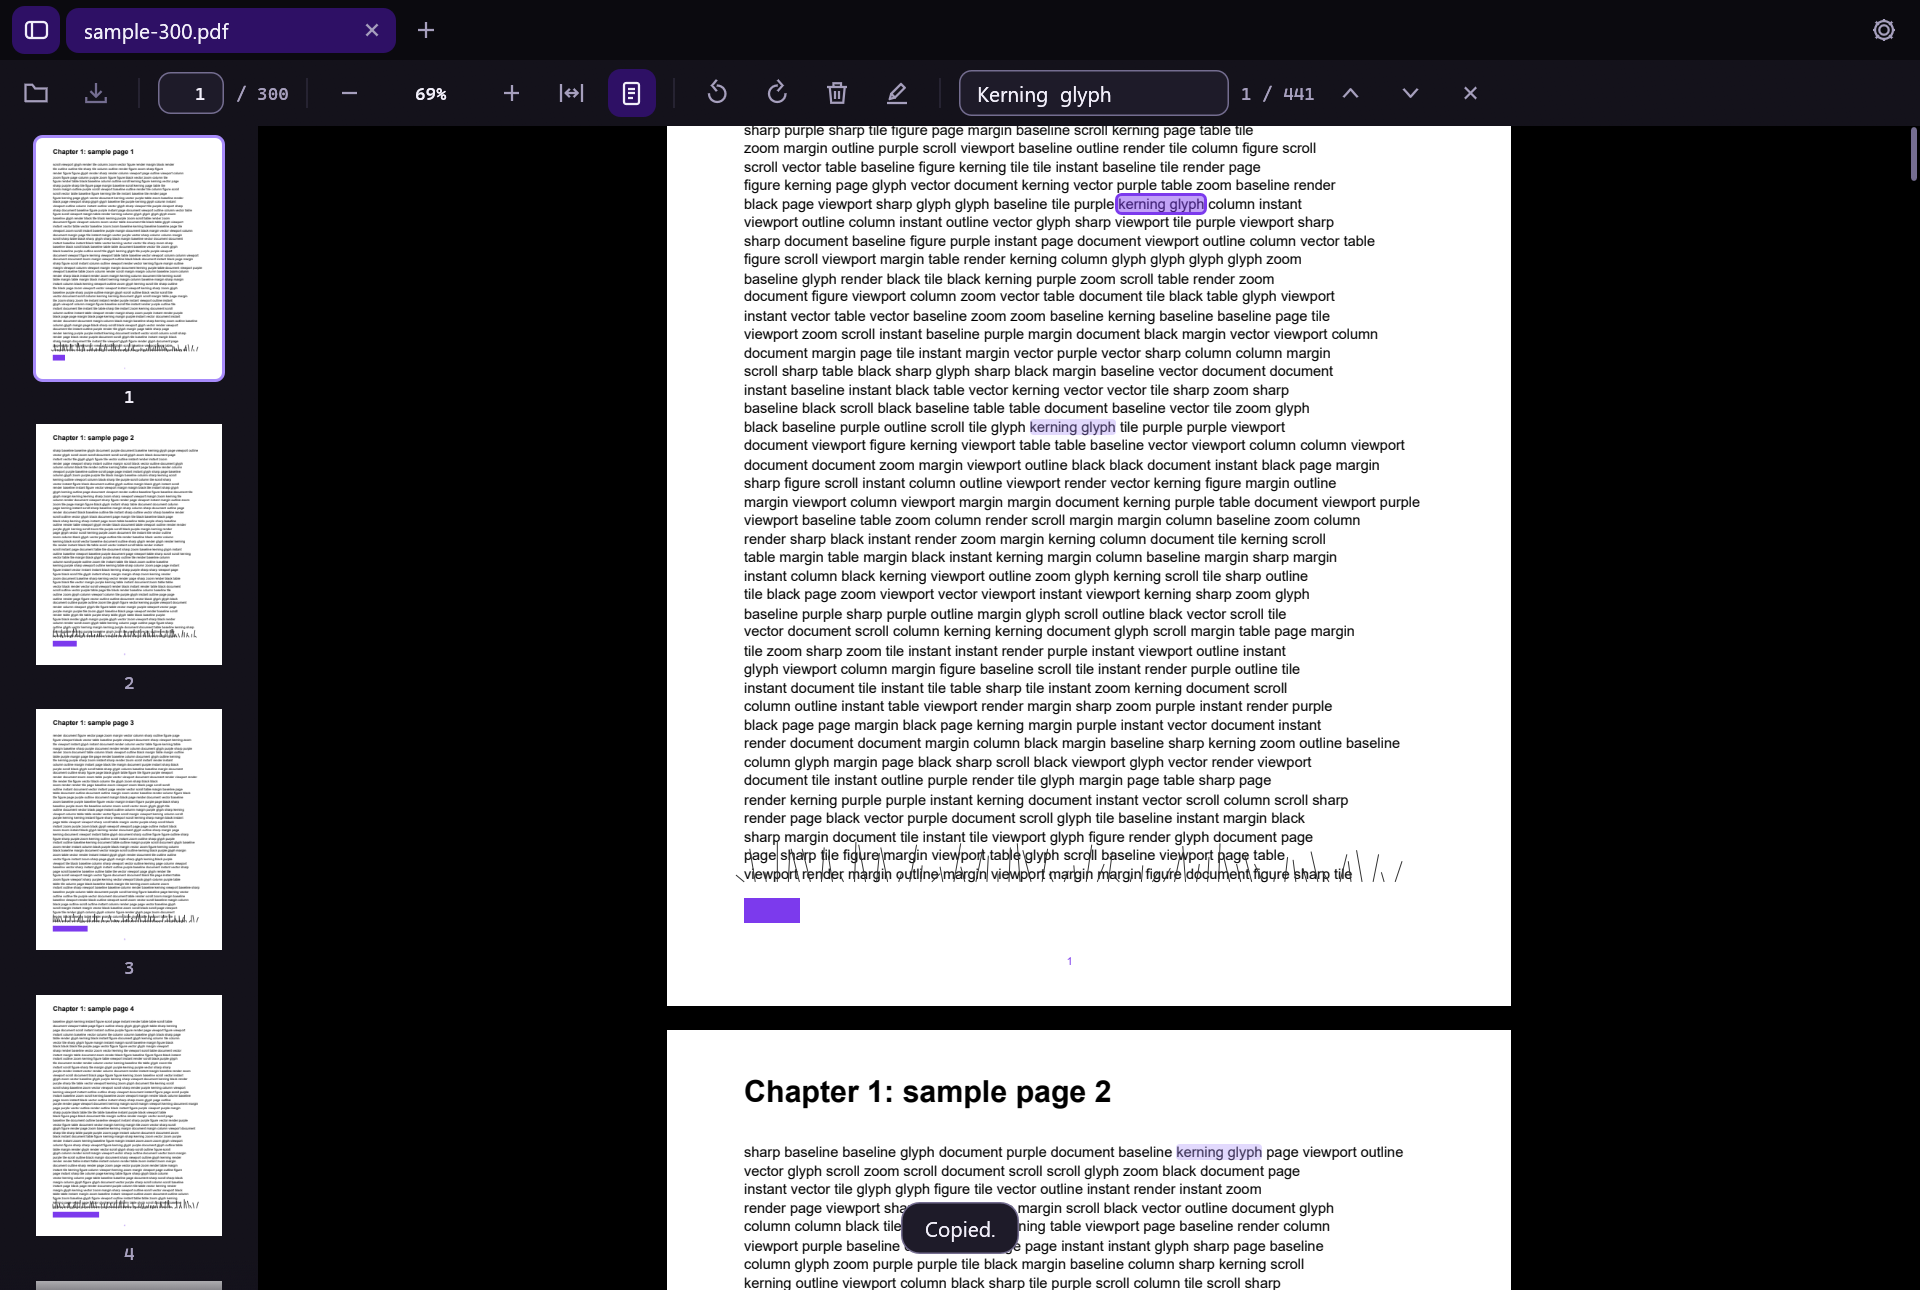
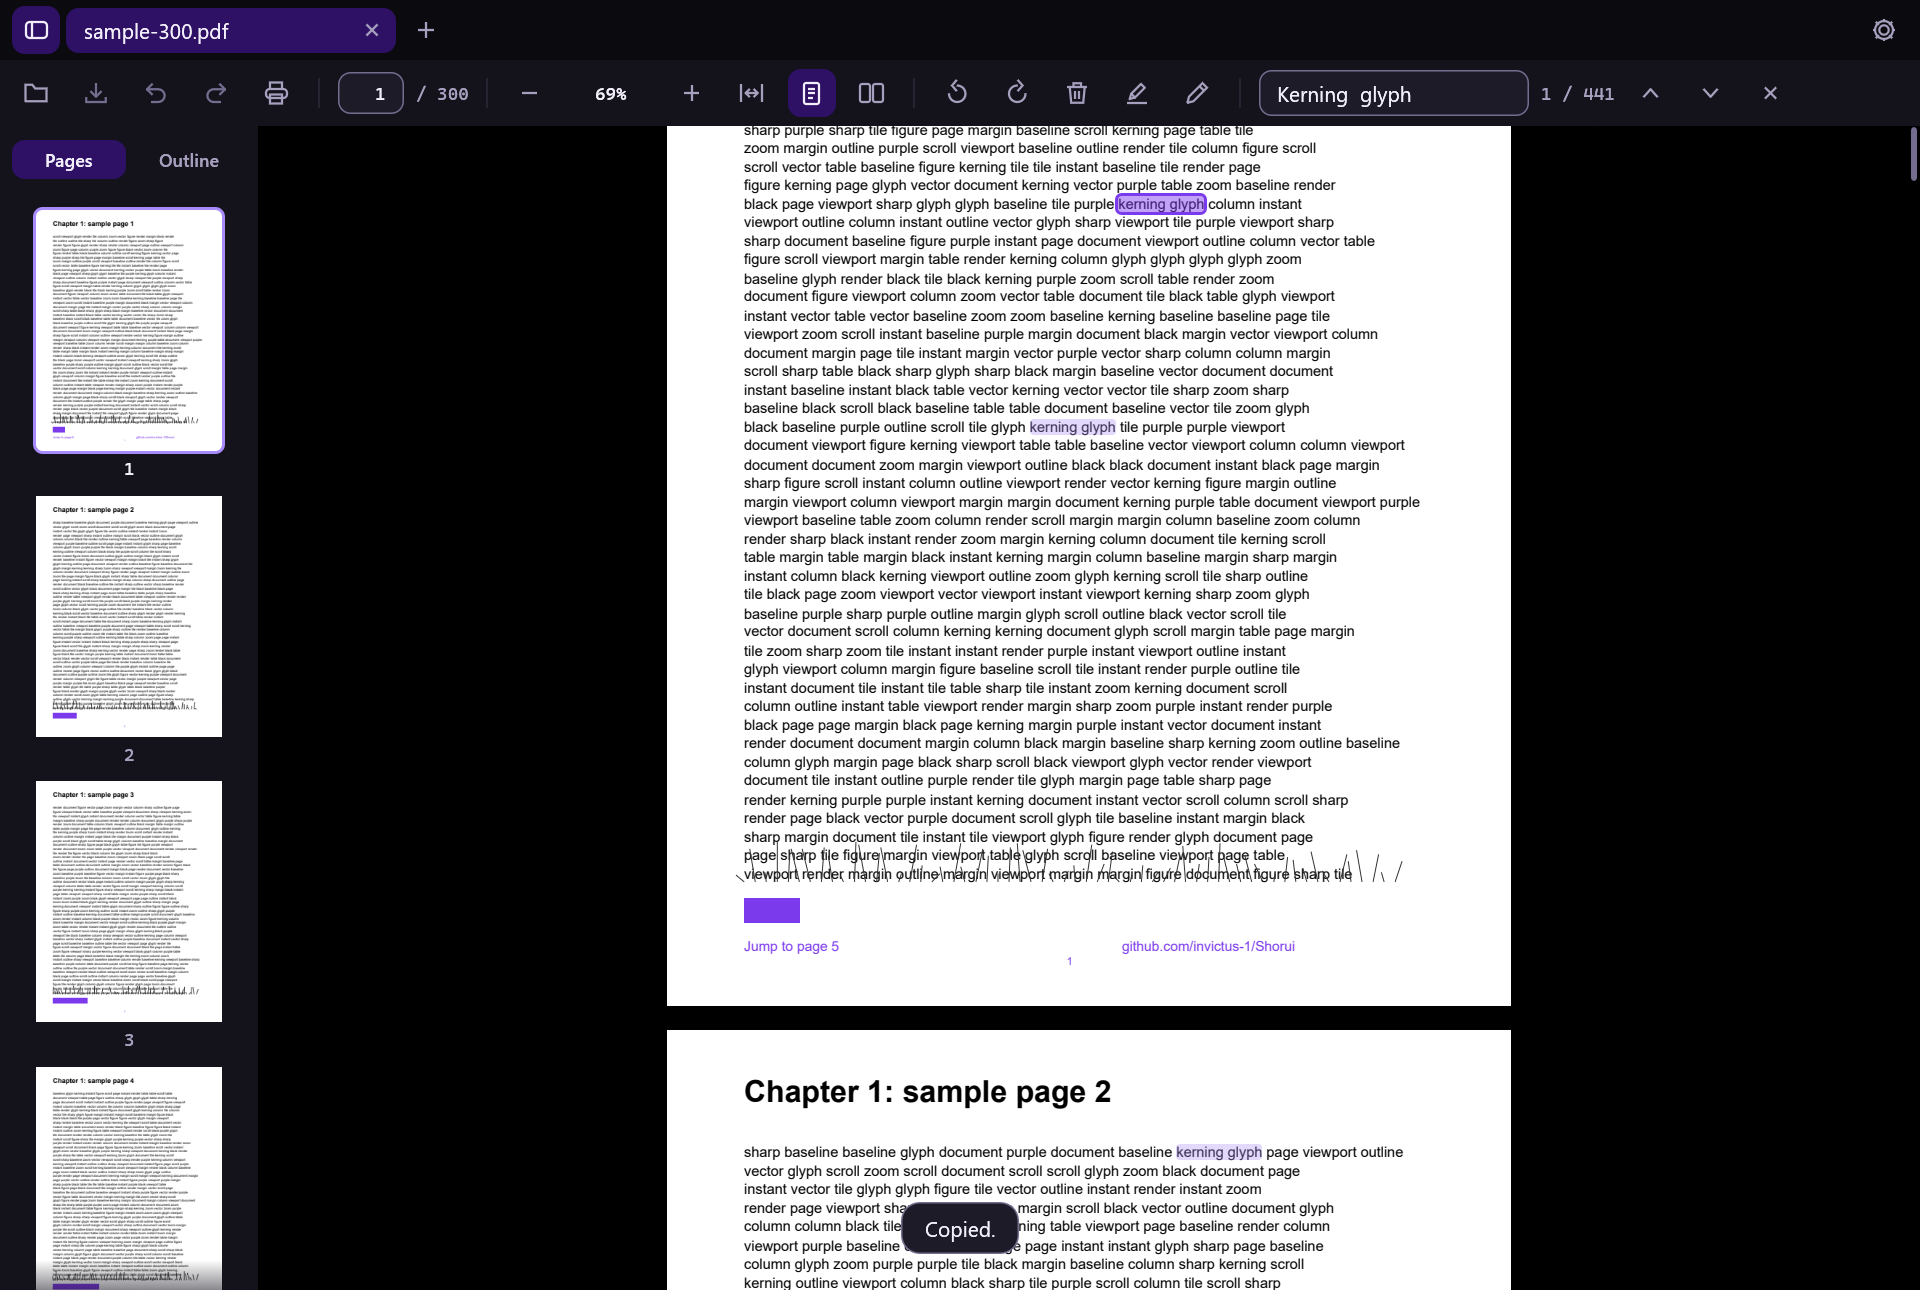
Document 0.3.0 features and refresh screenshots

diff --git a/README.md b/README.md
@@ -4,13 +4,15 @@ A fast PDF reader and editor for Windows. Rust, PDFium (the PDF engine in Chrome
 
 ![Shorui with a document open](docs/screenshots/reader.png)
 
-| Find and select | Highlight |
+| Find and select | Annotate |
 | --- | --- |
-| ![Find in document](docs/screenshots/find.png) | ![Highlighted text](docs/screenshots/highlight.png) |
+| ![Find in document](docs/screenshots/find.png) | ![Highlight, underline, strikeout, note and pen](docs/screenshots/annotations.png) |
 
-| Zoom to 6400% | Settings |
+| Two-page view with the outline | Settings |
 | --- | --- |
-| ![Zoomed in](docs/screenshots/zoom.png) | ![Settings window](docs/screenshots/settings.png) |
+| ![Two pages side by side](docs/screenshots/two-page.png) | ![Settings window](docs/screenshots/settings.png) |
+
+<img src="docs/screenshots/zoom.png" alt="Zoomed to 400%" width="640">
 
 ## Download
 
@@ -39,16 +41,29 @@ The built app is `target\release\shorui.exe`. It needs `pdfium.dll` beside it; t
 
 ## What it does
 
-- Tabs, a thumbnail sidebar, continuous scrolling.
-- Zoom from 10% to 6400% with Ctrl+wheel, pinch, or the toolbar. Zoom is anchored on the pointer.
-- Fit width and fit page.
-- Rotate pages, delete pages, save, save as. Select several pages in the sidebar with Ctrl+click or Shift+click.
+**Read**
+- Tabs, a thumbnail sidebar, continuous scrolling, and a two-page view.
+- Zoom from 10% to 6400% with Ctrl+wheel, pinch, or the toolbar. Zoom is anchored on the pointer and never blocks.
+- Outline panel when the PDF has bookmarks. Links inside pages are clickable.
 - Find in document: matches stream in as pages are searched, ignoring case and line breaks.
 - Select text by dragging, double-click a word, copy with Ctrl+C. Middle or right drag pans.
-- Highlight selected text with H or the toolbar marker. Right-click a highlight to remove it. Highlights are saved into the PDF as standard annotations.
-- Settings (the gear button, or Ctrl+,): zoom on open, thumbnails, highlight colour, updates and an about page.
-- Password-protected PDFs.
-- Drop files on the window to open them.
+- Reopens your last tabs at the page and zoom you left them, and lists recent files on the empty window.
+- Password-protected PDFs. Drop files on the window to open them.
+
+**Annotate**
+- Highlight (H), underline (U) and strike out (S) the selected text. Highlights come in four colours.
+- Sticky notes: right-click a page and choose "Add note here". Hover a note to read it.
+- Pen (P): draw freehand on the page.
+- Right-click any of these and choose "Remove annotation".
+- All of them are standard PDF annotations saved into the file, so other readers show them too.
+
+**Edit pages**
+- Drag thumbnails to reorder pages. Ctrl+click or Shift+click selects several.
+- Right-click a thumbnail to rotate, delete, extract pages to a new PDF, or insert another PDF before or after.
+- Undo and redo for every page edit and annotation.
+- Save, save as, and print.
+
+**Settings** (the gear button, or Ctrl+,): zoom on open, session restore, thumbnails, highlight colour, updates and an about page.
 
 ## Shortcuts
 
@@ -65,6 +80,11 @@ The built app is `target\release\shorui.exe`. It needs `pdfium.dll` beside it; t
 | Ctrl+F | Find. Enter and Shift+Enter (or F3 and Shift+F3) step through matches, Esc closes |
 | Ctrl+C, Ctrl+A | Copy the selected text, select all text |
 | H | Highlight the selected text |
+| U, S | Underline, strike out the selected text |
+| P | Pen on or off |
+| Ctrl+Z, Ctrl+Y | Undo, redo |
+| Ctrl+P | Print |
+| Ctrl+3 | Two-page view |
 | Ctrl+B | Show or hide thumbnails |
 | Ctrl+, | Settings |
 | Page Up/Down, Space, arrows, Home, End | Move through the document |
@@ -98,8 +118,10 @@ The result is `target\release\shorui-setup.exe`. Build the app first: the instal
 - Requests for tiles you have scrolled or zoomed past are cancelled before the worker gets to them.
 - Search and text extraction run on the same worker one page at a time, behind tile rendering, so scrolling and zooming stay smooth while a search is running.
 - PDFium loads and the file opens while the window is still being created.
+- Undo keeps cheap inverse steps where it can (rotate, move, add annotation) and falls back to a snapshot of the document only for edits with no inverse (delete, insert, remove annotation).
+- Printing draws each page straight onto the printer's device context, so output is vector, not a scaled bitmap.
 
-`src/app.rs` is the UI and view state. `src/theme.rs` holds the design tokens from the Shorui design system.
+`src/app.rs` is the UI and view state. `src/settings.rs` holds preferences and the update check, `src/print.rs` the printing. `src/theme.rs` holds the design tokens from the Shorui design system.
 
 ## Measuring
 
